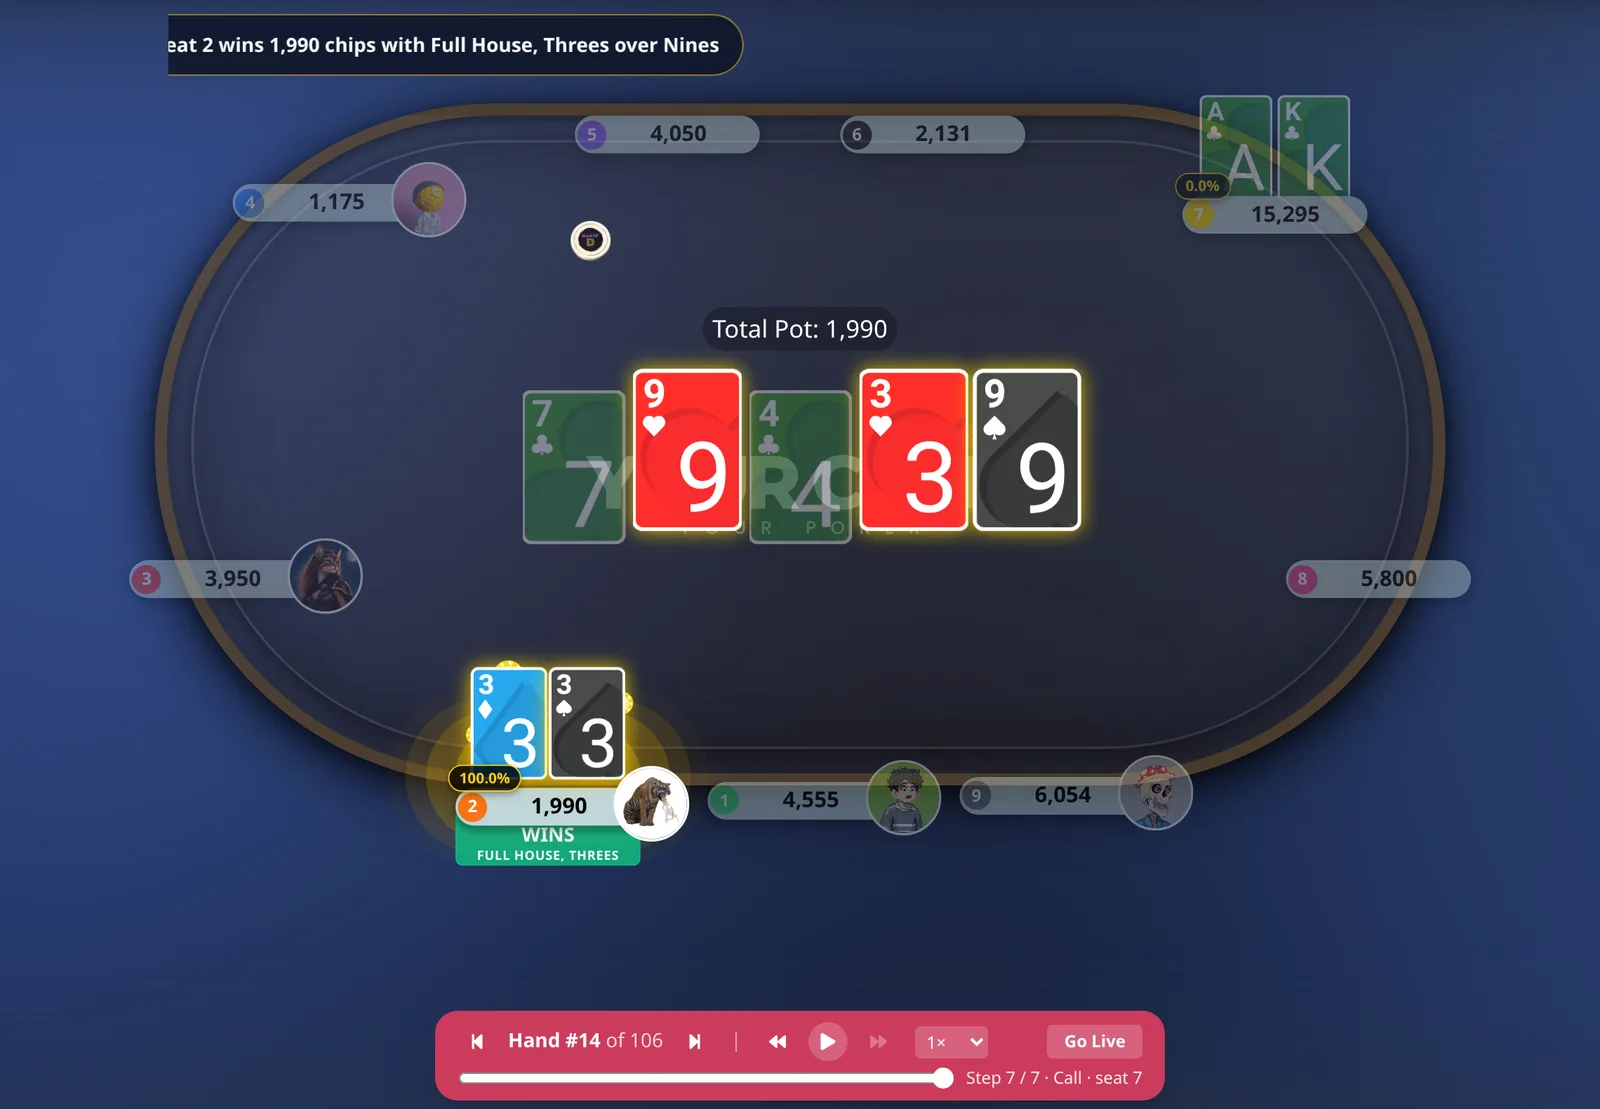
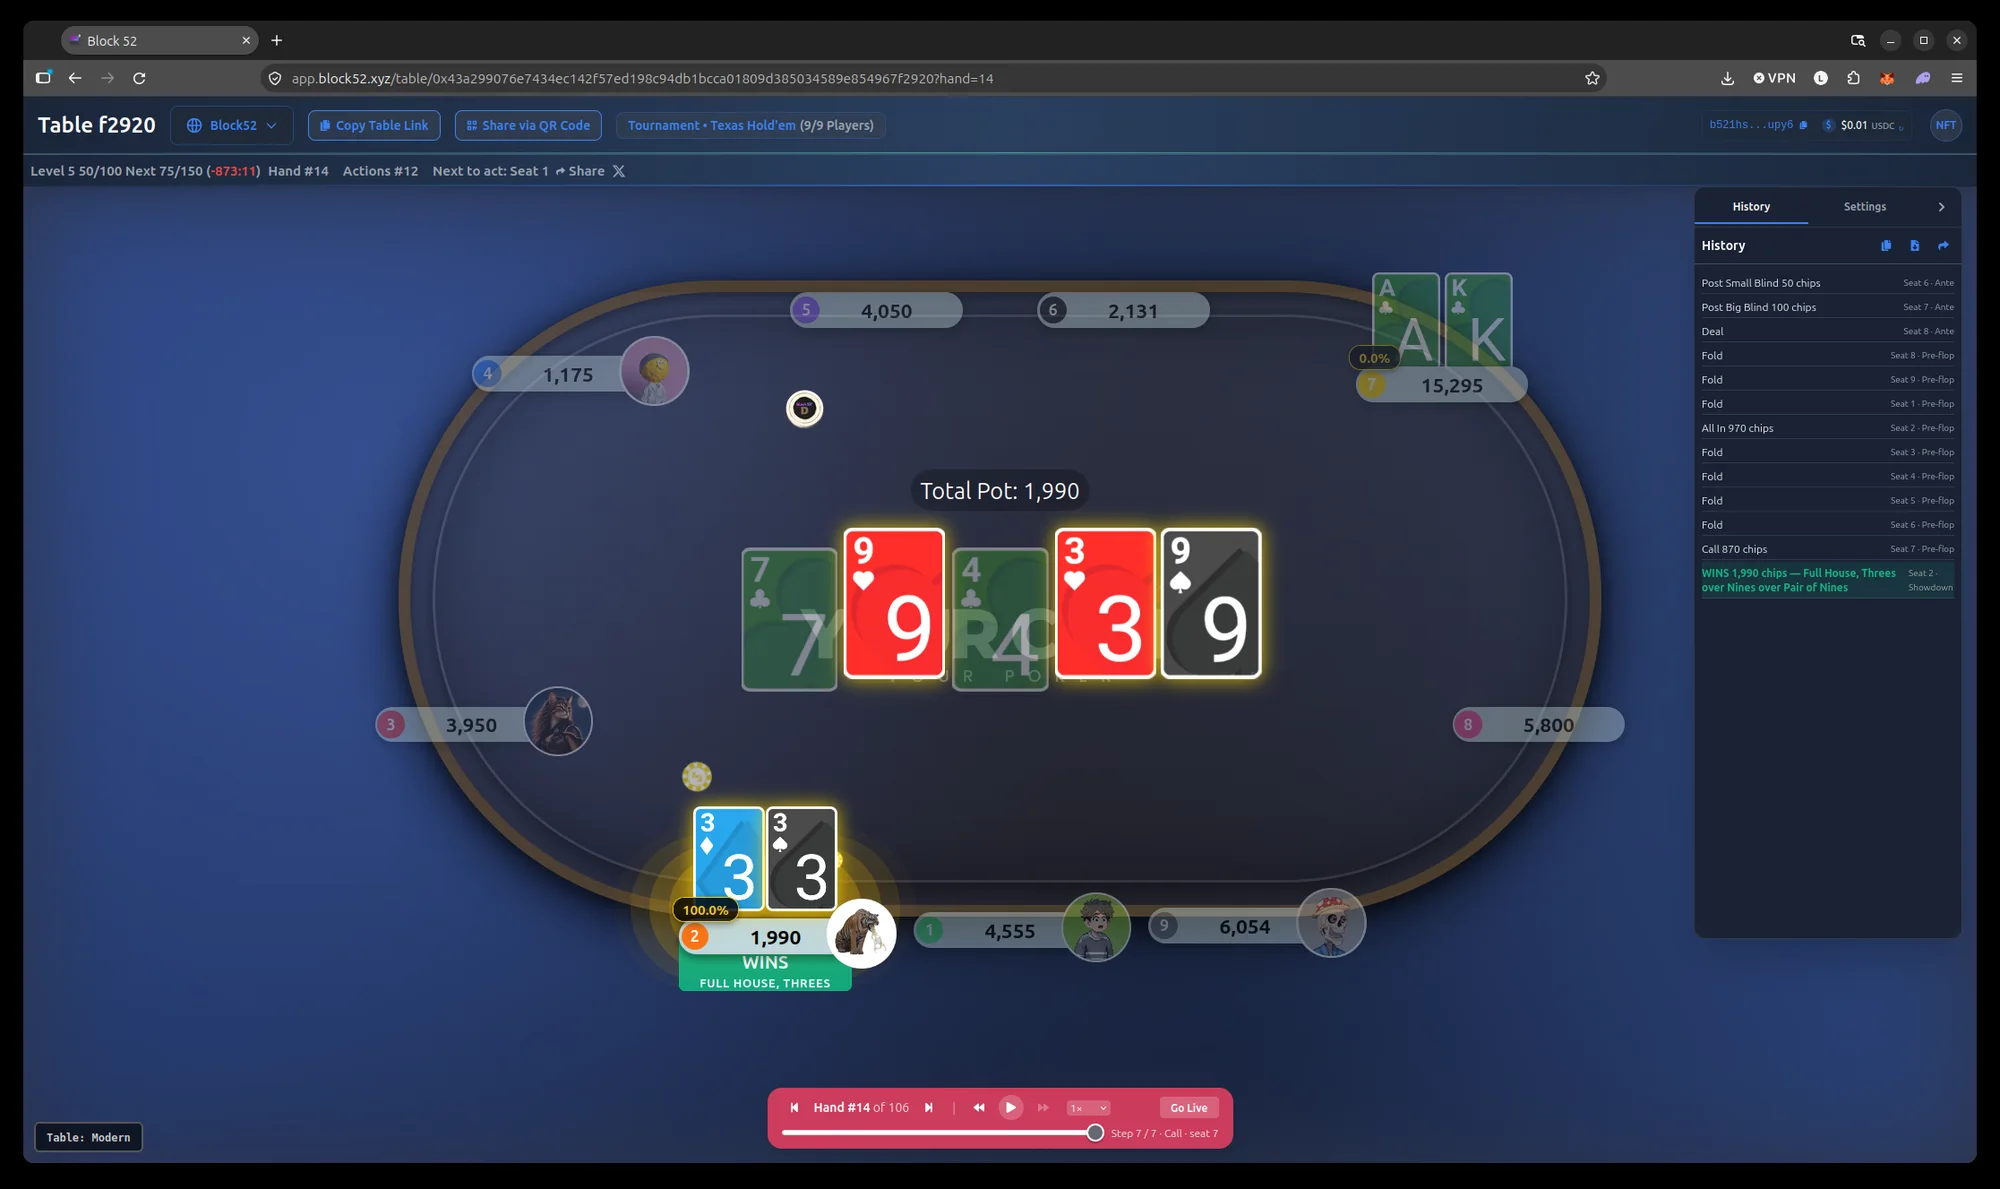
Use the full-browser screenshot of hand #14 (URL bar + action history)
Claude-Session: https://claude.ai/code/session_0179nsTc3Tvb5ZLQpD4LqEF7

diff --git a/index.html b/index.html
@@ -1282,7 +1282,7 @@
                     </p>
                 </div>
                 <figure class="real-hand">
-                    <img src="hand-14.webp" width="1600" height="1109" loading="lazy" alt="Block52 replay of hand 14 from a nine-player tournament: seat 2 holds three of diamonds and three of spades and wins 1,990 chips with a full house, threes over nines, on a board of 7 of clubs, 9 of hearts, 4 of clubs, 3 of hearts, 9 of spades, against ace-king of clubs." />
+                    <img src="hand-14.webp" width="2000" height="1189" loading="lazy" alt="Block52 replay of hand 14 from a nine-player tournament: seat 2 holds three of diamonds and three of spades and wins 1,990 chips with a full house, threes over nines, on a board of 7 of clubs, 9 of hearts, 4 of clubs, 3 of hearts, 9 of spades, against ace-king of clubs." />
                     <figcaption>
                         <span><span class="tag-real">Real hand</span><b>Hand #14</b> of a nine-player tournament, 31 Oct 2026: 3♦3♠ all in, A♣K♣ calls, the river 9♠ makes threes full.</span>
                         <a href="https://app.block52.xyz/table/0x43a299076e7434ec142f57ed198c94db1bcca01809d385034589e854967f2920?hand=14">Replay it on chain →</a>
